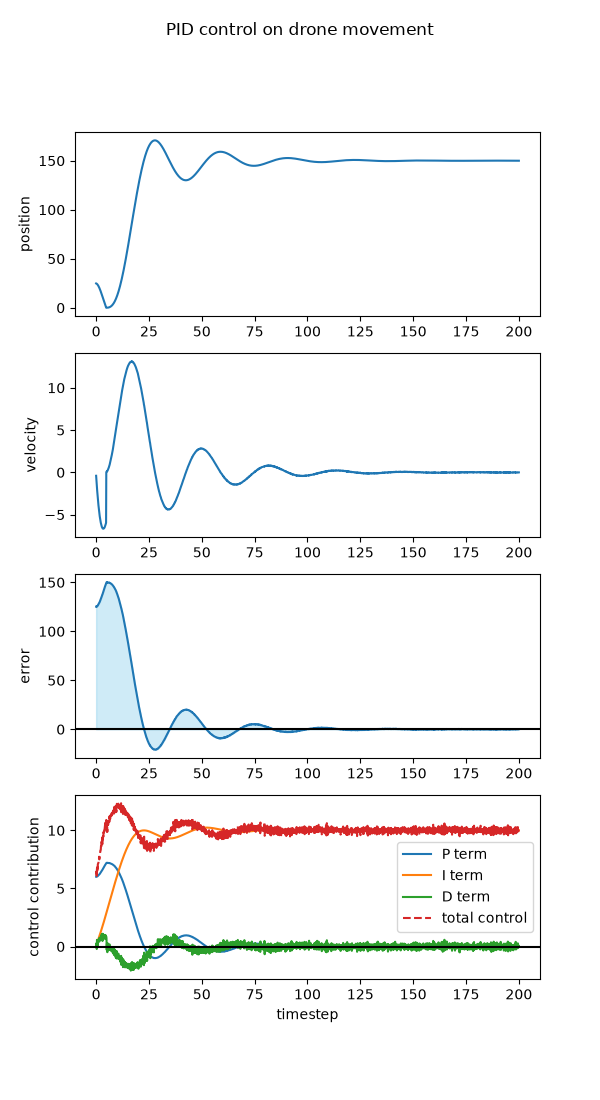
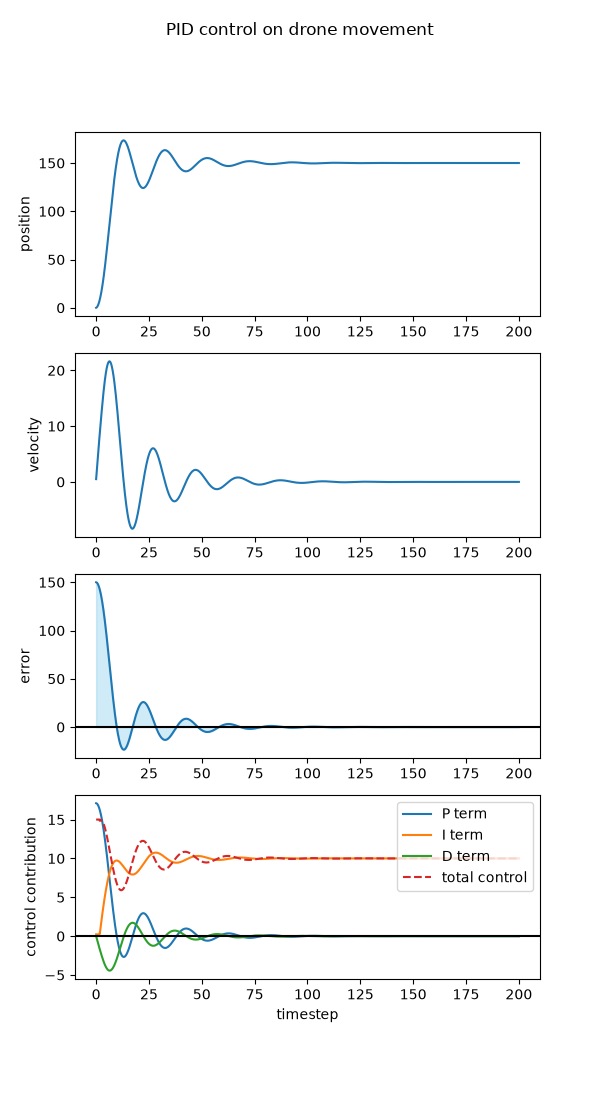
bug fixes + performance evaluation

diff --git a/simulator.py b/simulator.py
@@ -60,3 +60,42 @@ class Simulator:
 
         plt.suptitle("PID control on drone movement")
         plt.savefig('output.png')
+
+    def report(self, history, command, dt):
+        pos = history[:, 0]
+        metrics = {
+            "rise_time": rise_time(pos, command, dt),
+            "overshoot_%": overshoot(pos, command),
+            "settling_time": settling_time(pos, command, dt),
+            "steady_state_error": steady_state_error(pos, command),
+        }
+        for k, v in metrics.items():
+            print(f"{k}: {v:.3f}" if v is not None else f"{k}: N/A")
+        return metrics
+
+def rise_time(history, setpoint, dt, low=0.1, high=0.9):
+    history = np.array(history)
+    low_val, high_val = low * setpoint, high * setpoint
+    try:
+        t_low = np.where(history >= low_val)[0][0]
+        t_high = np.where(history >= high_val)[0][0]
+        return (t_high - t_low) * dt
+    except IndexError:
+        return None  # never reached thresholds
+
+def overshoot(history, setpoint):
+    peak = max(history) if setpoint >= 0 else min(history)
+    return max(0.0, (peak - setpoint) / setpoint * 100) # percentage
+
+def settling_time(history, setpoint, dt, tol=0.02):
+    history = np.array(history)
+    band = tol * abs(setpoint)
+    # find last index where response is OUTSIDE the tolerance band
+    outside = np.where(np.abs(history - setpoint) > band)[0]
+    if len(outside) == 0:
+        return 0.0
+    return outside[-1] * dt  # time it last exits the band = settling time
+
+def steady_state_error(history, setpoint, n_last=50):
+    return setpoint - np.mean(history[-n_last:])
+

diff --git a/main.py b/main.py
@@ -11,8 +11,8 @@ dt = 0.1 # time step
 n = 2000  # number of steps
 
 # saturation
-u_max = None
-u_min = None
+u_max = 15
+u_min = -15
 
 plant = Plant_Car(mass=1.0, friction=0.05, initial_state=[0.0, 1.0])
 plant_drone = Plant_Drone(mass=1.0, friction=0.05, initial_state=[0.0, 0.0], saturation=u_max)
@@ -30,7 +30,7 @@ pid = PID(Kp=0.50, Ki=0.02, Kd=0.5)
 #Z-N
 Ku, Tu = find_ultimate_gain(plant=plant_drone,
                             command=cmd,
-                            tolerance=0.05, # tolerance for critical point (percentage)
+                            tolerance=0.01, # tolerance for critical point (percentage)
                             kp_start=0.0, 
                             kp_step=0.01, 
                             dt=dt, 
@@ -51,5 +51,6 @@ history = simulator_drone.simulate(pid=pid_ZN,
                 u_min=u_min,
                 u_max=u_max)
 
-# plot dynamics
+# plot dynamics & print performance evaluation
 simulator_drone.plot(pid=pid_ZN, history=history, dt=dt,n=n)
+simulator_drone.report(history=history, command=cmd, dt=dt)

diff --git a/ZieglerNichols.py b/ZieglerNichols.py
@@ -40,6 +40,7 @@ def find_ultimate_gain(
             peaks,_ = signal.find_peaks(history)
             Tu = measure_period(peaks=peaks,dt=dt)
             Ku = kp
+            plant.state = initial_state.copy()
             # return Ku, Tu
             return Ku, Tu
         kp += kp_step
